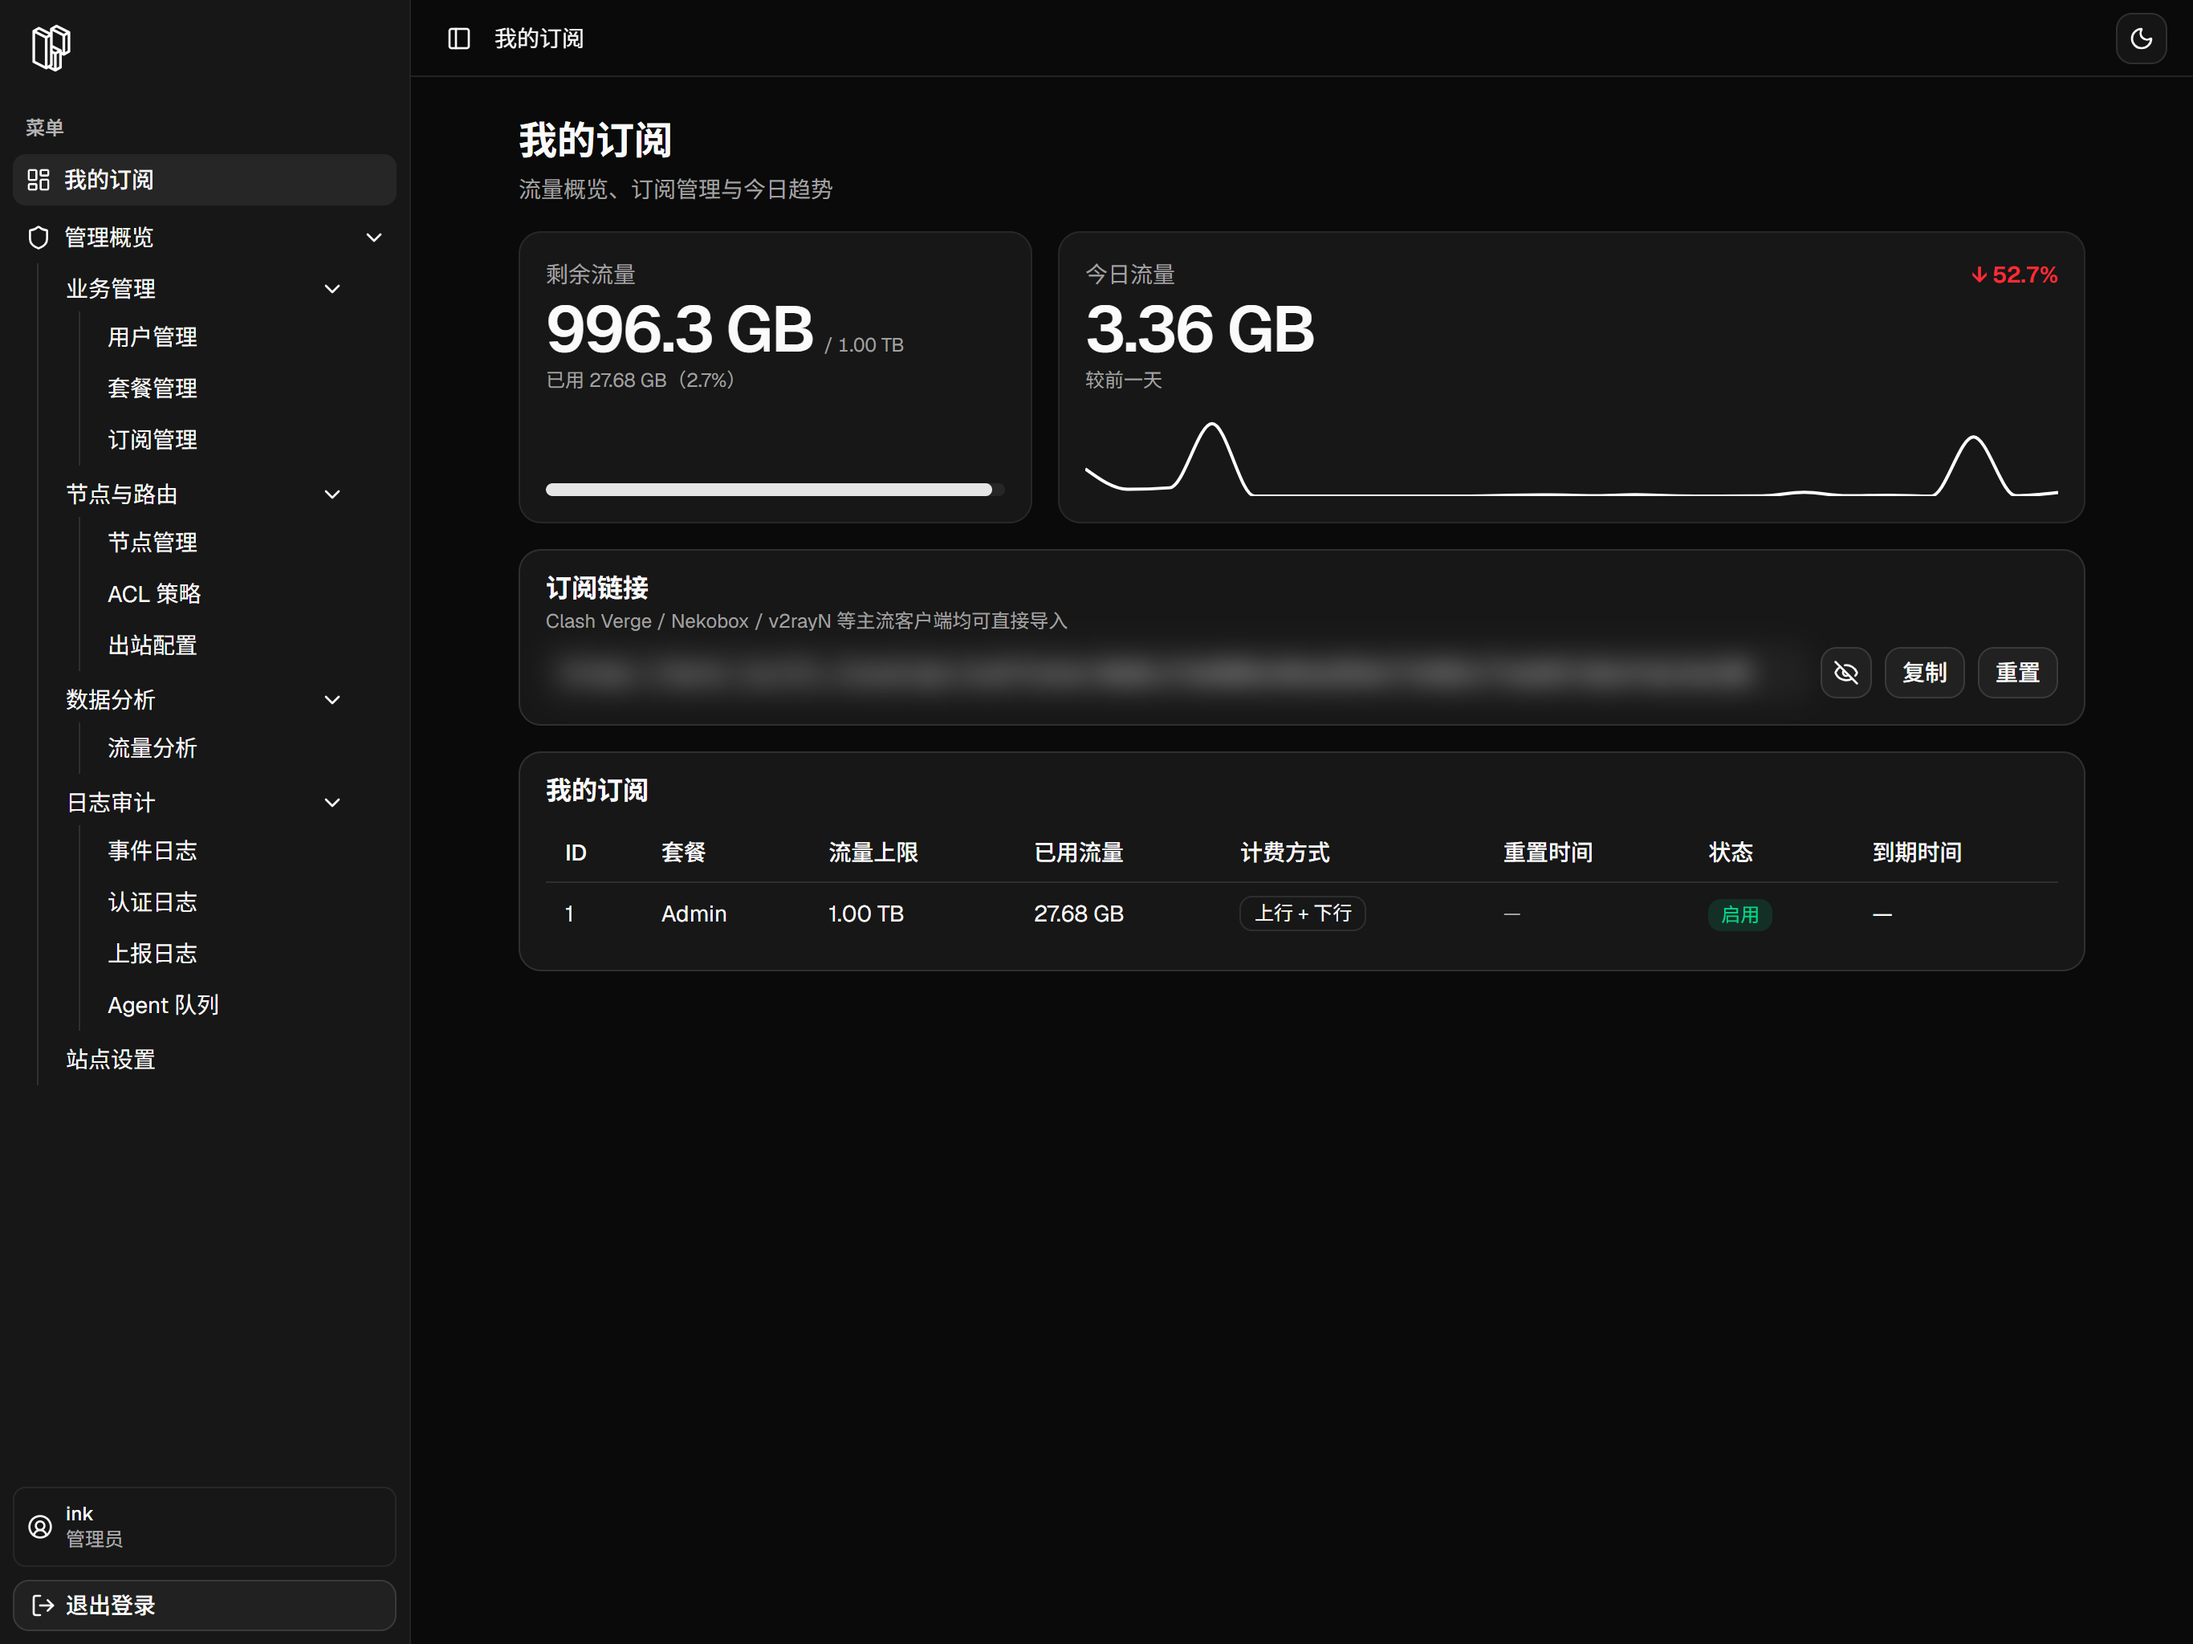
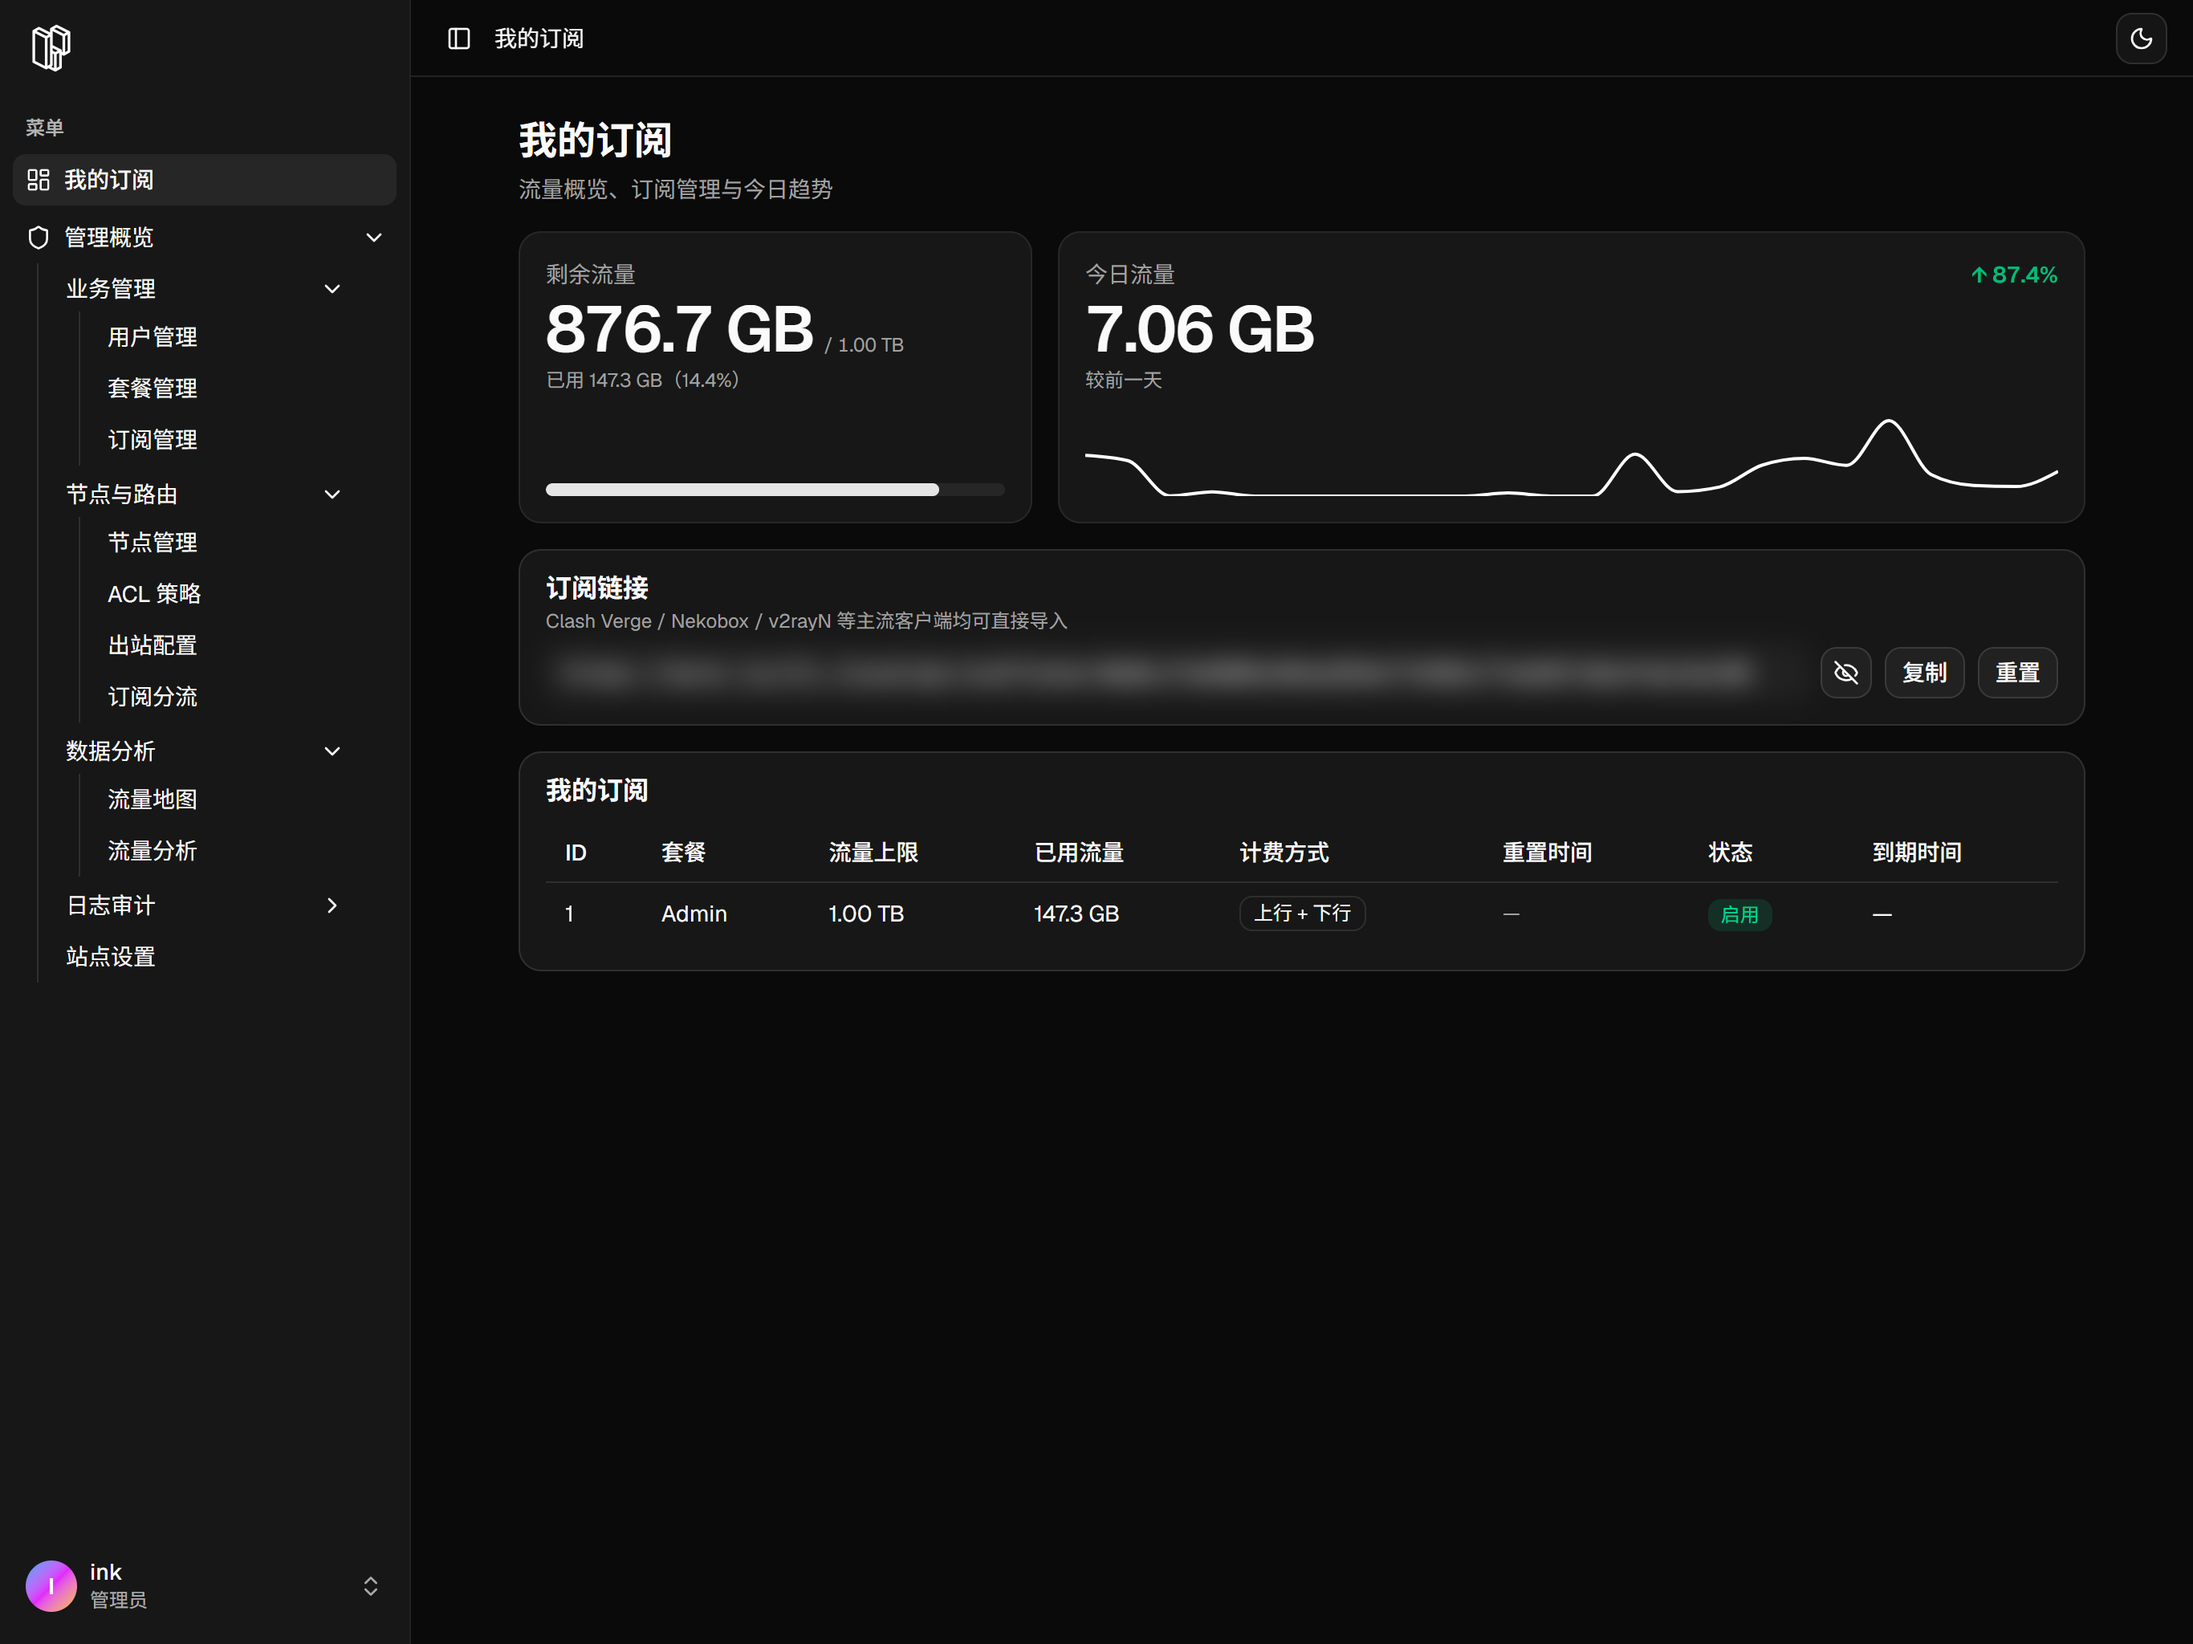
md: 更新配图

diff --git a/README.md b/README.md
@@ -13,18 +13,9 @@ Hysteria 2 Ops - 一站式管理你的 Hysteria2 节点
 
 ![Nodes](docs/imge/md/nodes.png)
 
-- 流量统计
+- 流量地图
 
-![Analysis](docs/imge/md/analysis.png)
-
-- 分流策略
-
-![Acls](docs/imge/md/acls.png)
-
-- 订阅分流
-
-![Rules](docs/imge/md/rules.png)
-
+![Flow](docs/imge/md/trafficmap.png)
 ---
 
 # TODO
